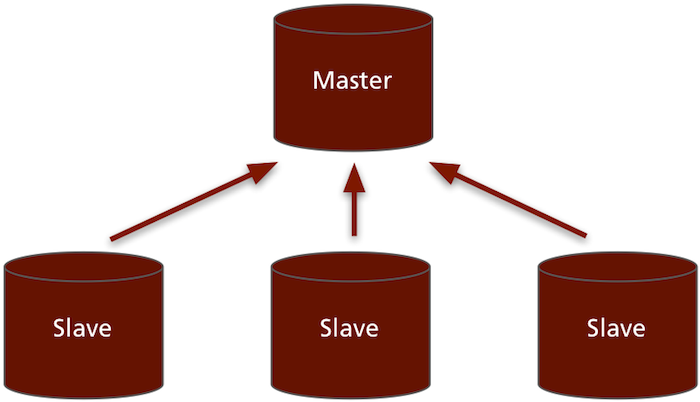
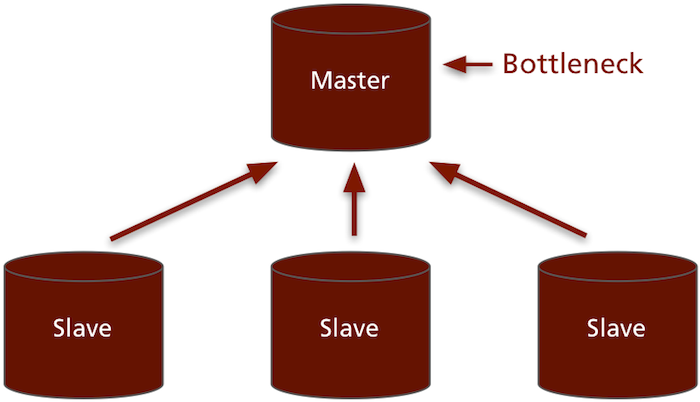
Added sharding, new graphics for master-slave.

diff --git a/04_scaling_out/04_scaling_out.md b/04_scaling_out/04_scaling_out.md
@@ -12,7 +12,11 @@
 
 ![Master-Slave](master_slave.png)
 
-### (Old-school!) ###
+!SLIDE center
+
+## Sharding ##
+
+![Sharding](sharding.png)
 
 !SLIDE
 

diff --git a/05_pick_your_tools/05_pick_your_tools.md b/05_pick_your_tools/05_pick_your_tools.md
@@ -24,10 +24,6 @@
 
 # Run! #
 
-!SLIDE
-
-# Caveat Emptor #
-
 !SLIDE center
 
 ## NoSQL is not the holy grail. ##
